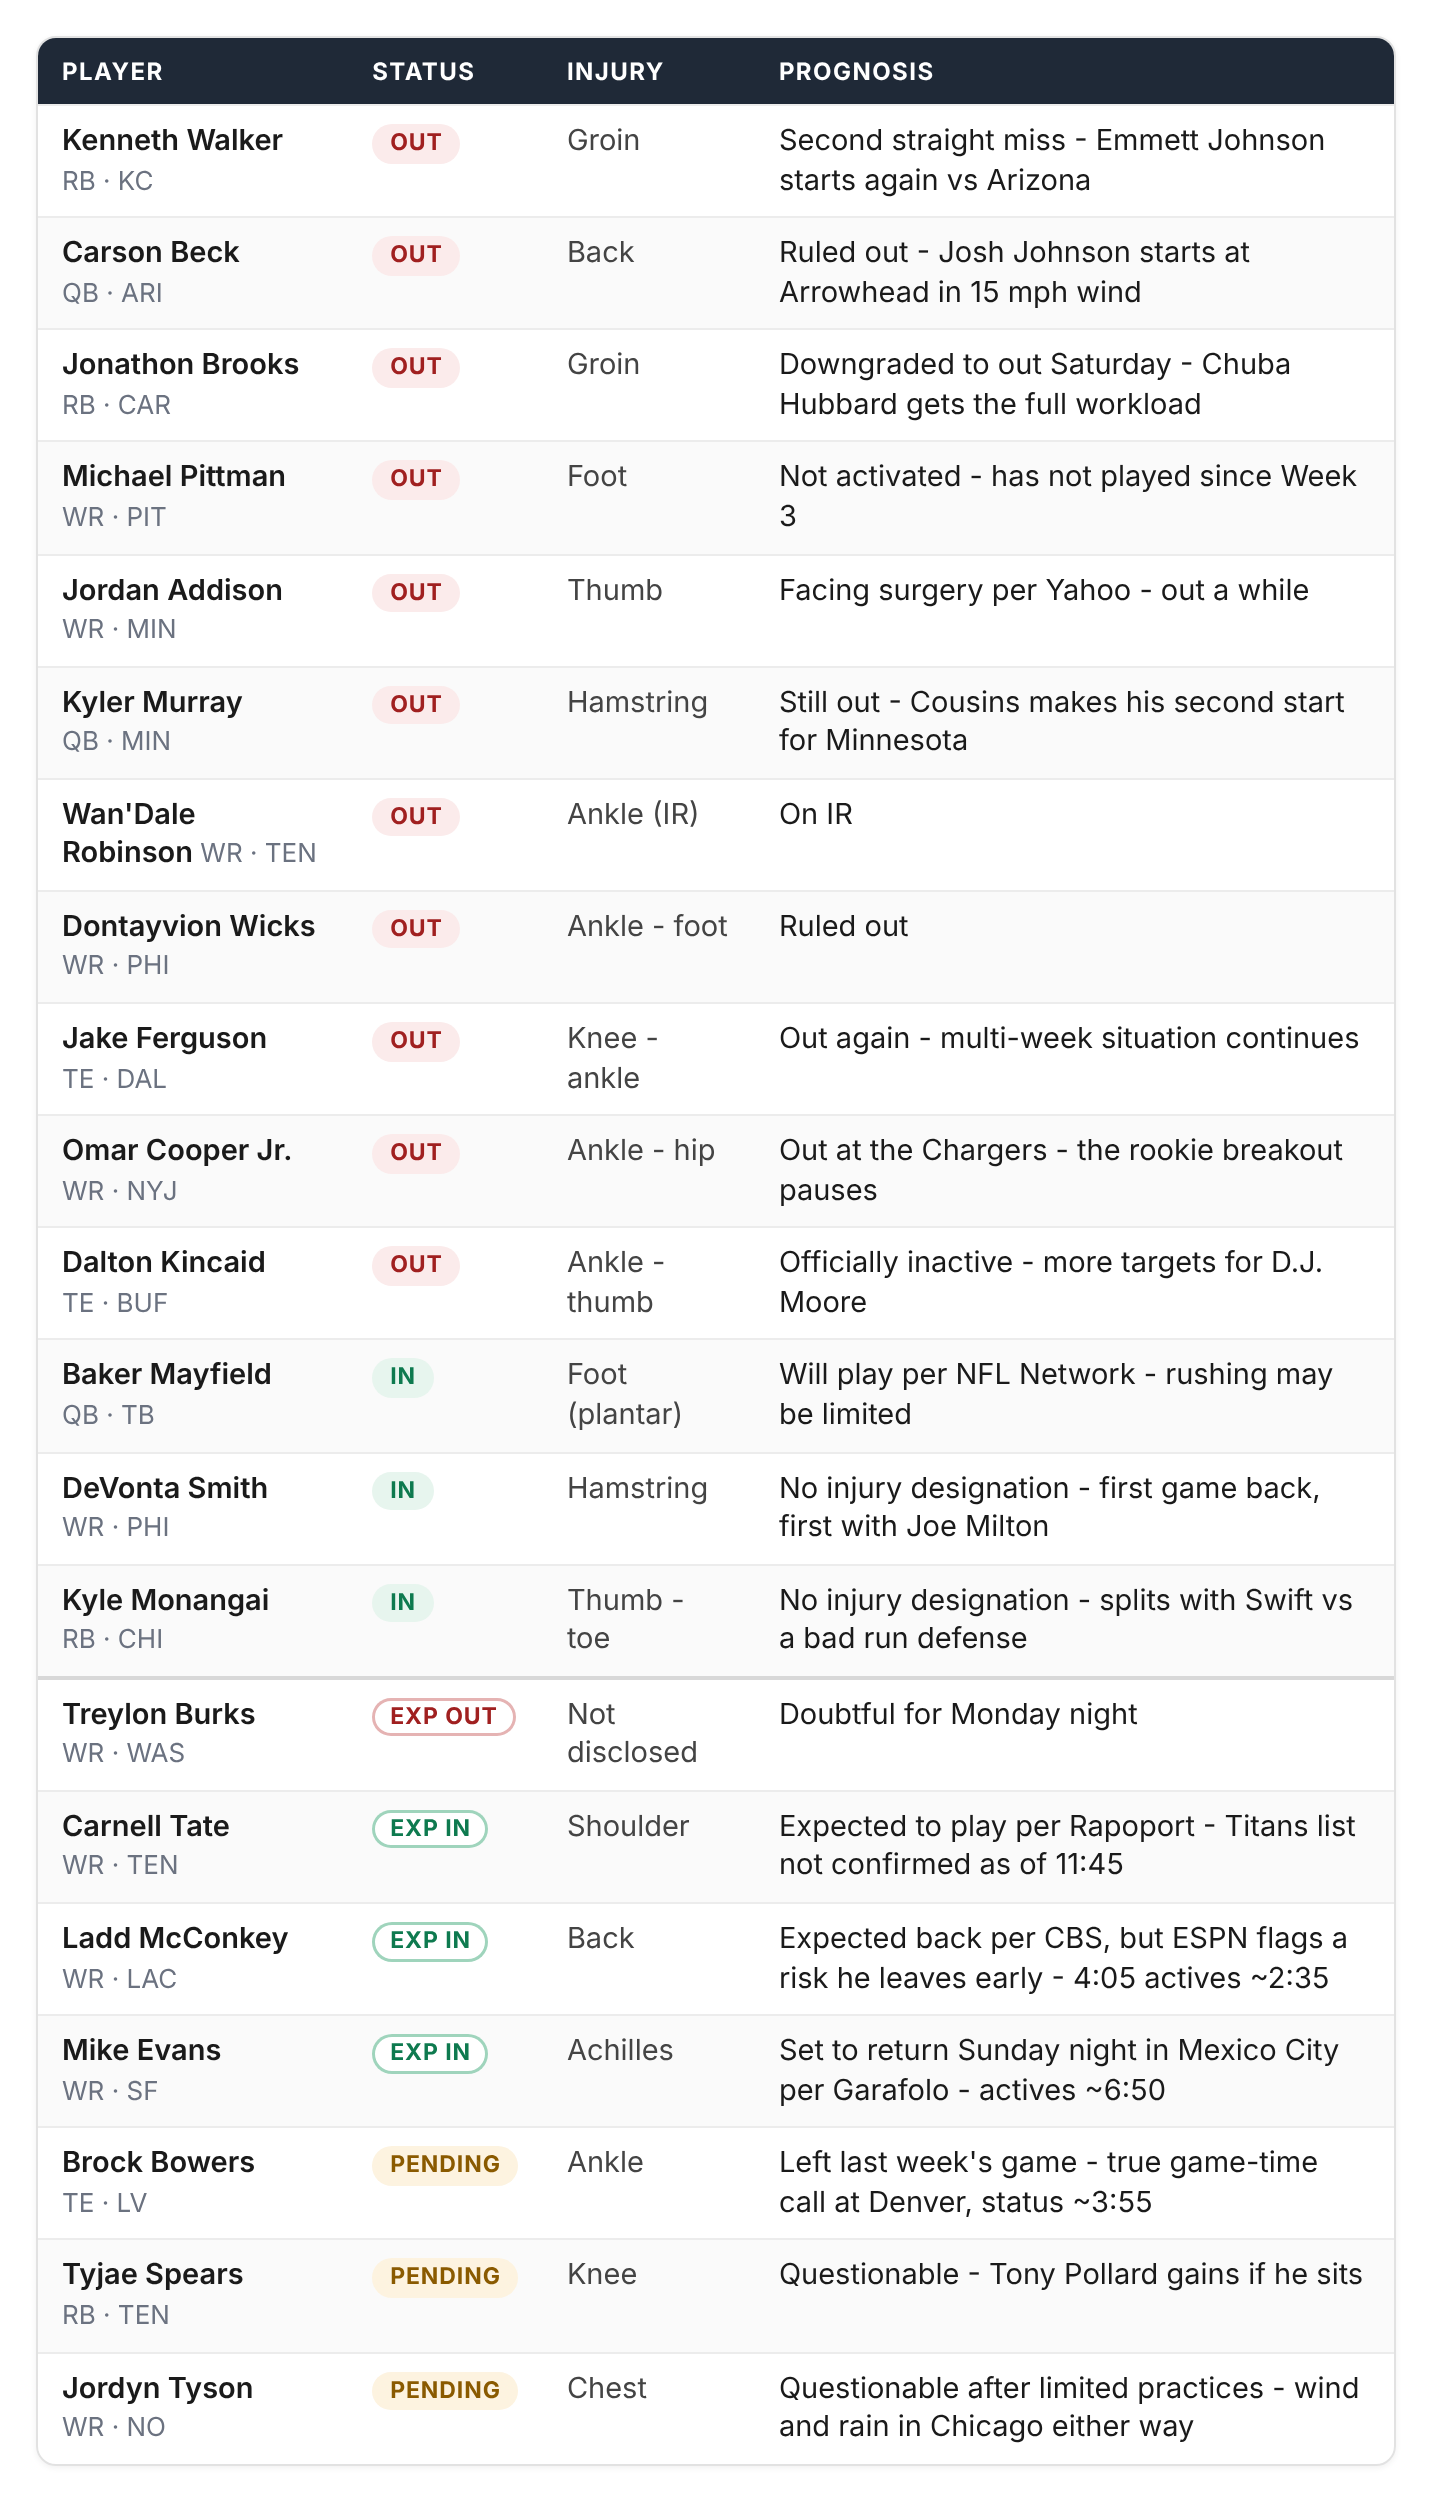
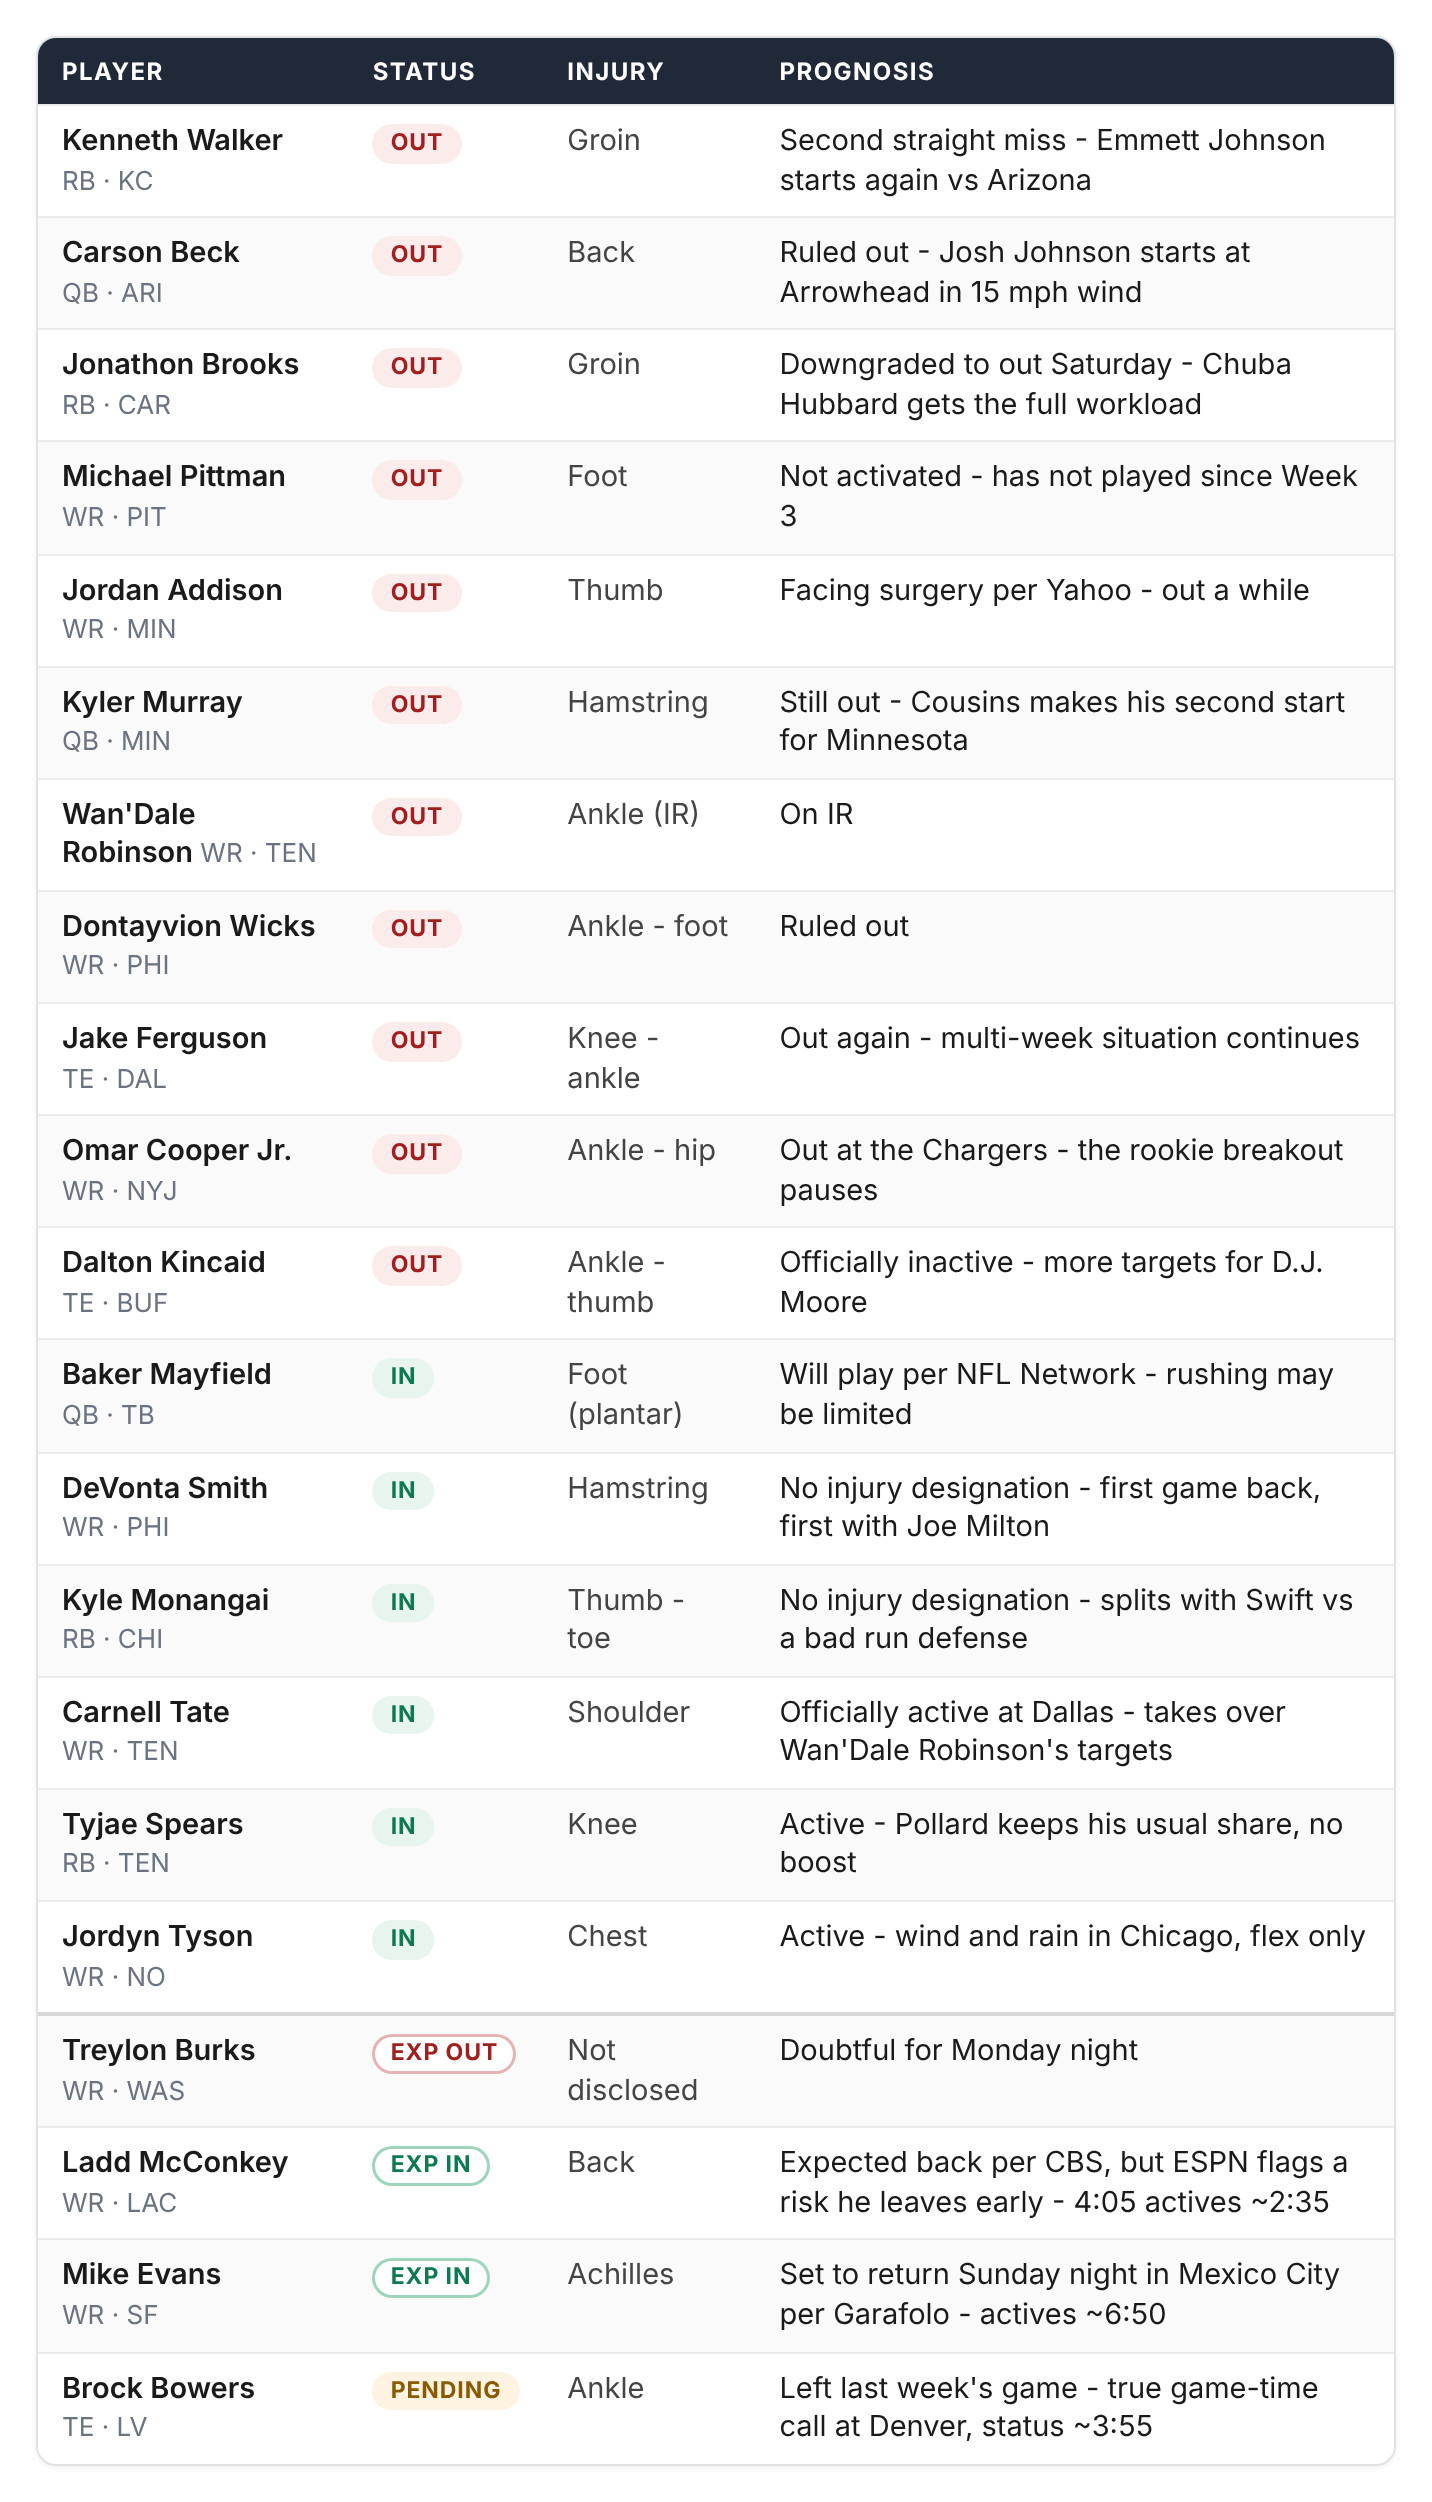
Week 11 wire final for 1:00 games [skip ci]
Claude-Session: https://claude.ai/code/session_01LD24FbXSMtPMcXZkoCgqbd

diff --git a/data/sunday/injury-wire.md b/data/sunday/injury-wire.md
@@ -11,7 +11,7 @@
 #   - Locked rows first, not-locked rows last (renderer draws the divider).
 #   - Pipes (|) can't appear inside cell text.
 #
-# WEEK 11 — 2026-11-22 — TRUE-UP 11:45 ET (byes: ATL, CLE, GB, LAR, NE, SEA; IND-HOU played Thu; MIN-SF in Mexico City)
+# WEEK 11 — 2026-11-22 — FINAL for 1:00 games 12:10 ET (byes: ATL, CLE, GB, LAR, NE, SEA; IND-HOU played Thu; MIN-SF in Mexico City)
 
 | Player | Pos/Team | Status | Injury | Prognosis |
 |---|---|---|---|---|
@@ -29,10 +29,10 @@
 | Baker Mayfield | QB · TB | IN | Foot (plantar) | Will play per NFL Network - rushing may be limited |
 | DeVonta Smith | WR · PHI | IN | Hamstring | No injury designation - first game back, first with Joe Milton |
 | Kyle Monangai | RB · CHI | IN | Thumb - toe | No injury designation - splits with Swift vs a bad run defense |
+| Carnell Tate | WR · TEN | IN | Shoulder | Officially active at Dallas - takes over Wan'Dale Robinson's targets |
+| Tyjae Spears | RB · TEN | IN | Knee | Active - Pollard keeps his usual share, no boost |
+| Jordyn Tyson | WR · NO | IN | Chest | Active - wind and rain in Chicago, flex only |
 | Treylon Burks | WR · WAS | EXP OUT | Not disclosed | Doubtful for Monday night |
-| Carnell Tate | WR · TEN | EXP IN | Shoulder | Expected to play per Rapoport - Titans list not confirmed as of 11:45 |
 | Ladd McConkey | WR · LAC | EXP IN | Back | Expected back per CBS, but ESPN flags a risk he leaves early - 4:05 actives ~2:35 |
 | Mike Evans | WR · SF | EXP IN | Achilles | Set to return Sunday night in Mexico City per Garafolo - actives ~6:50 |
 | Brock Bowers | TE · LV | PENDING | Ankle | Left last week's game - true game-time call at Denver, status ~3:55 |
-| Tyjae Spears | RB · TEN | PENDING | Knee | Questionable - Tony Pollard gains if he sits |
-| Jordyn Tyson | WR · NO | PENDING | Chest | Questionable after limited practices - wind and rain in Chicago either way |
